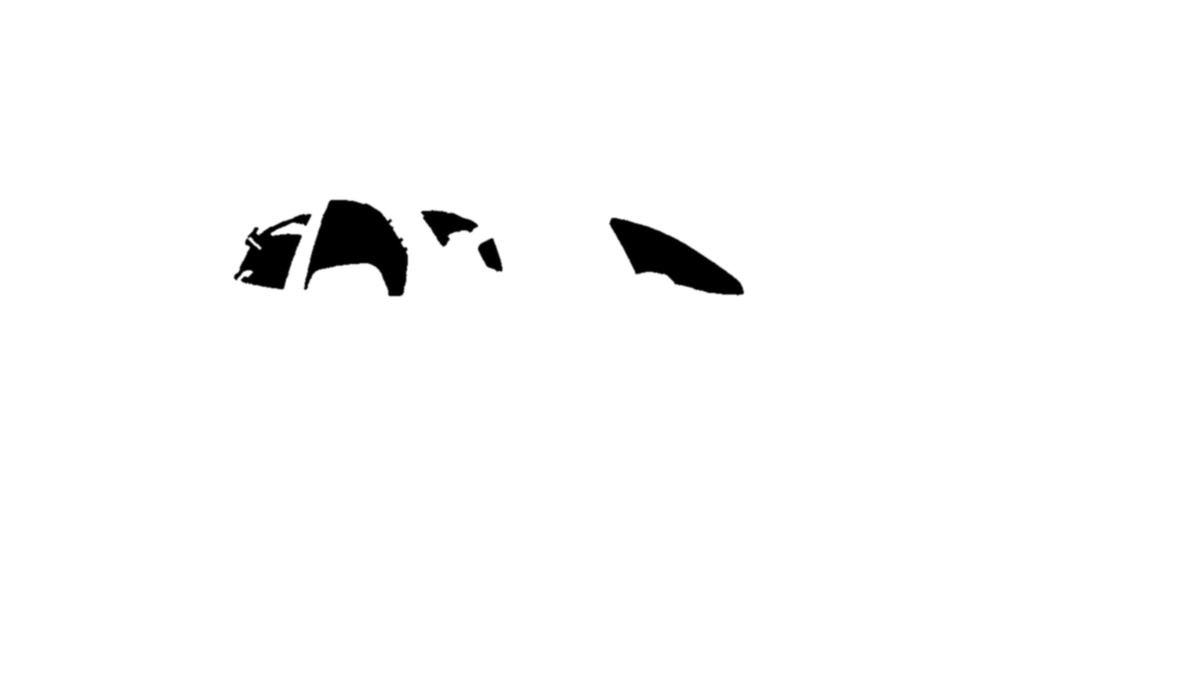
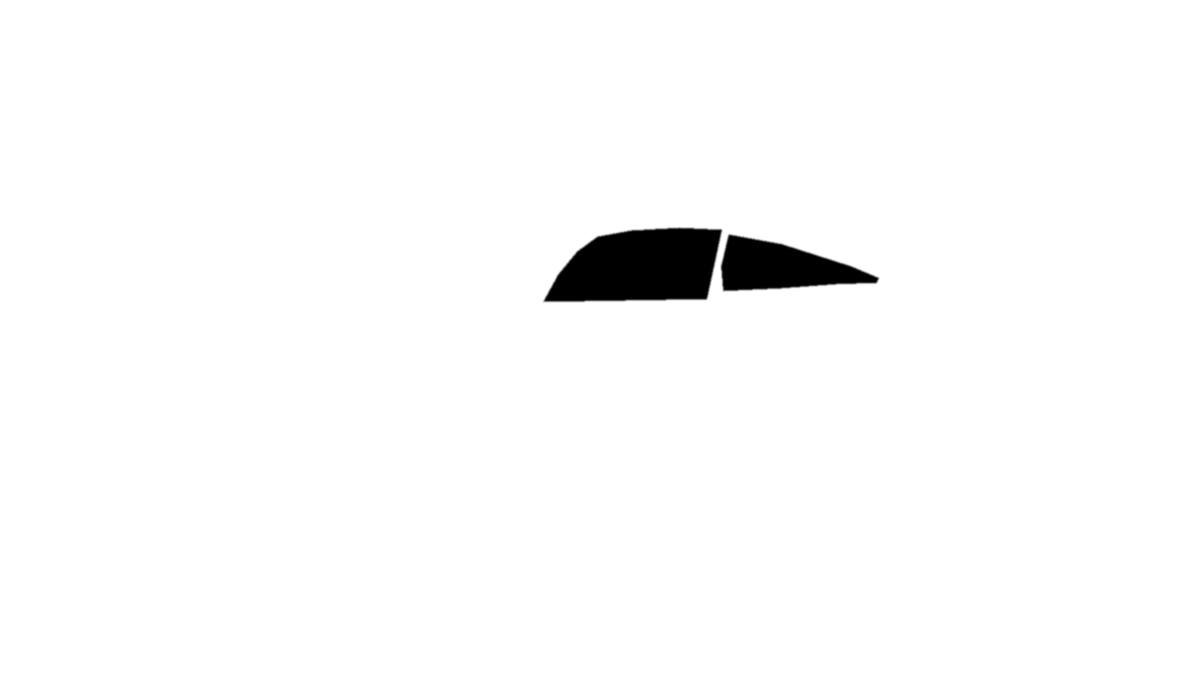
Tint simulator: Porsche 911 GT3 side view and front view
Claude-Session: https://claude.ai/code/session_01JSe59Rv6yHtwH29Jy3ACiQ

Changed region(s): [[0.4317, 0.3111, 0.74, 0.4667], [0.185, 0.28, 0.4317, 0.4356]]

diff --git a/window-tinting.html b/window-tinting.html
@@ -48,7 +48,7 @@
 <div class="pkgs"><div class="pkg"><div class="pimg"><img src="assets/tint/two-windows.webp" alt="Two windows tint package at the Divine Detailers shop" width="960" height="559" loading="lazy"></div><h3>Two windows</h3><ul><li>Front driver side</li><li>Front passenger side</li></ul></div><div class="pkg"><div class="pimg"><img src="assets/tint/full-tint.webp" alt="Full tint tint package at the Divine Detailers shop" width="960" height="559" loading="lazy"></div><h3>Full tint</h3><ul><li>Front driver + passenger</li><li>Rear driver + passenger</li></ul></div><div class="pkg"><div class="pimg"><img src="assets/tint/windshield.webp" alt="Windshield tint package at the Divine Detailers shop" width="960" height="559" loading="lazy"></div><h3>Windshield</h3><ul><li>Full windshield</li><li>Extra protection</li></ul></div><div class="pkg"><div class="pimg"><img src="assets/tint/sunvisor-strip.webp" alt="Sunvisor strip tint package at the Divine Detailers shop" width="960" height="559" loading="lazy"></div><h3>Sunvisor strip</h3><ul><li>Sun strip</li><li>Reduces sun glare</li></ul></div></div><div class="sim" id="simulator"><p class="sim-label"><span class="dot"></span>DIVINE DETAILERS</p><h3>Window Tint <em>Simulator</em></h3>
 <p class="sim-sub">Select a side window shade below</p>
 <div class="sim-tabs"><button class="on" data-sim-tab="side">Side Windows</button><button data-sim-tab="wind">Windshield</button></div>
-<div class="sim-view" id="simView" aria-hidden="true"><img class="sim-car" src="assets/tint/sim-car.webp" alt="" width="1200" height="675" loading="lazy"><div class="sim-shade sim-side" id="simShade"></div><div class="sim-shade sim-wind"></div><div class="sim-badge"><b id="simBadge">30%</b><span id="simBadgeLabel">SIDE VLT</span></div></div>
+<div class="sim-view" id="simView" aria-hidden="true"><img class="sim-car sim-car-side" src="assets/tint/sim-side.webp" alt="" width="1200" height="675" loading="lazy"><img class="sim-car sim-car-front" src="assets/tint/sim-front.webp" alt="" width="1200" height="675" loading="lazy"><div class="sim-shade sim-side" id="simShade"></div><div class="sim-shade sim-wind"></div><div class="sim-badge"><b id="simBadge">30%</b><span id="simBadgeLabel">SIDE VLT</span></div></div>
 <div class="sim-info"><b id="simTitle">30% VLT — Medium Tint</b><p id="simDesc">Balanced privacy with clear night visibility. A daily-driver favorite.</p></div>
 <div class="sim-vlt" role="group" aria-label="Shade level"><button data-vlt="5" data-name="Limo tint" data-desc="Maximum privacy. Very dark, best for rear windows where legal."><i style="--a:0.95"></i>5%</button><button data-vlt="15" data-name="Dark tint" data-desc="Strong privacy with a bold look. Check legal limits for your windows."><i style="--a:0.85"></i>15%</button><button data-vlt="30" data-name="Medium tint" data-desc="Balanced privacy with clear night visibility. A daily-driver favorite." class=on><i style="--a:0.70"></i>30%</button><button data-vlt="50" data-name="Light tint" data-desc="Subtle look with strong heat and UV protection. Easy night driving."><i style="--a:0.50"></i>50%</button><button data-vlt="70" data-name="Clear heat-rejection" data-desc="Nearly invisible film that still cuts heat and blocks UV."><i style="--a:0.30"></i>70%</button></div>
 <p class="note"><b>Florida law:</b> Tint darkness limits differ by window and vehicle. We will confirm the legal options for your vehicle before we install anything.</p></div></section><div class="stripes" aria-hidden="true"></div><div class="band has-photo" aria-hidden="true"><img class="" src="assets/photos/tint-squeegee-1600.webp" alt="" style="object-position:62% 25%" loading="lazy" decoding="async"></div><div class="stripes" aria-hidden="true"></div>

diff --git a/styles.css b/styles.css
@@ -562,3 +562,13 @@ a.map-card:hover em{color:#fff;border-color:#fff}
 .pimg:has(img){aspect-ratio:960/559}
 .pimg:has(img) img{object-position:50% 100%}
 @media(max-width:860px){.pimg:has(img){aspect-ratio:960/559}.pimg:has(img) img{object-position:50% 100%}}
+
+/* simulator: side photo for the side tab, front photo for the windshield tab */
+.sim-view{background:#fff}
+.sim-view .sim-car-front{display:none}
+.sim-view.wind .sim-car-front{display:block}
+.sim-view.wind .sim-car-side{display:none}
+.sim-view .sim-side{-webkit-mask-image:url(assets/tint/sim-mask-side.png);mask-image:url(assets/tint/sim-mask-side.png)}
+.sim-view .sim-wind{-webkit-mask-image:url(assets/tint/sim-mask-front.png);mask-image:url(assets/tint/sim-mask-front.png)}
+.sim-view .sim-wind{display:none}
+.sim-view.wind .sim-wind{display:block}

diff --git a/build.py b/build.py
@@ -450,7 +450,7 @@ def build_service(slug, title, short):
         sim = f'''<div class="sim" id="simulator"><p class="sim-label"><span class="dot"></span>DIVINE DETAILERS</p><h3>Window Tint <em>Simulator</em></h3>
 <p class="sim-sub">Select a side window shade below</p>
 <div class="sim-tabs"><button class="on" data-sim-tab="side">Side Windows</button><button data-sim-tab="wind">Windshield</button></div>
-<div class="sim-view" id="simView" aria-hidden="true"><img class="sim-car" src="assets/tint/sim-car.webp" alt="" width="1200" height="675" loading="lazy"><div class="sim-shade sim-side" id="simShade"></div><div class="sim-shade sim-wind"></div><div class="sim-badge"><b id="simBadge">30%</b><span id="simBadgeLabel">SIDE VLT</span></div></div>
+<div class="sim-view" id="simView" aria-hidden="true"><img class="sim-car sim-car-side" src="assets/tint/sim-side.webp" alt="" width="1200" height="675" loading="lazy"><img class="sim-car sim-car-front" src="assets/tint/sim-front.webp" alt="" width="1200" height="675" loading="lazy"><div class="sim-shade sim-side" id="simShade"></div><div class="sim-shade sim-wind"></div><div class="sim-badge"><b id="simBadge">30%</b><span id="simBadgeLabel">SIDE VLT</span></div></div>
 <div class="sim-info"><b id="simTitle">30% VLT — Medium Tint</b><p id="simDesc">Balanced privacy with clear night visibility. A daily-driver favorite.</p></div>
 <div class="sim-vlt" role="group" aria-label="Shade level">{btns}</div>
 <p class="note"><b>Florida law:</b> Tint darkness limits differ by window and vehicle. We will confirm the legal options for your vehicle before we install anything.</p></div>'''
